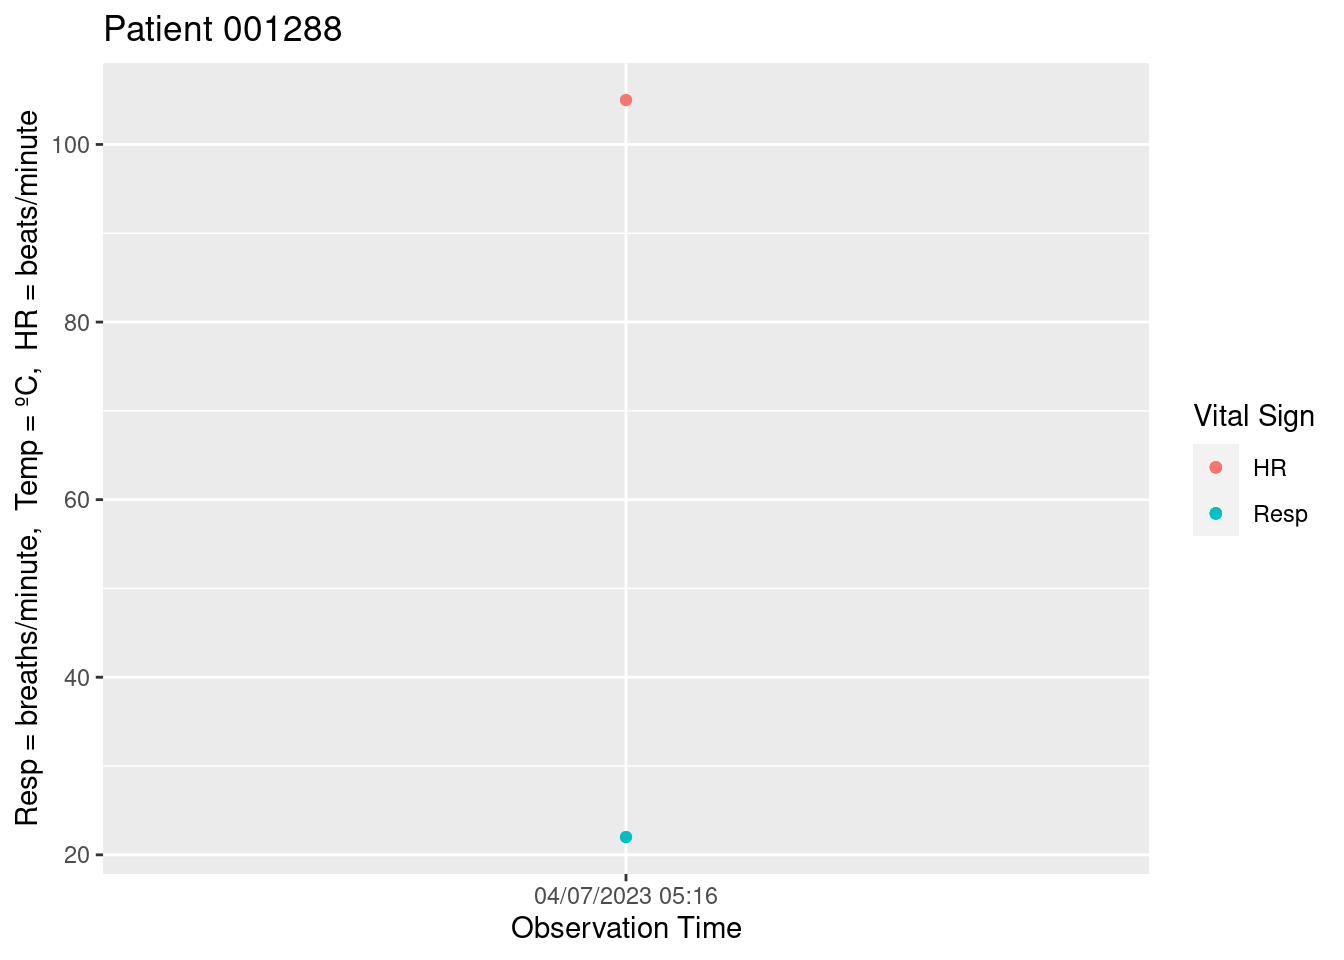
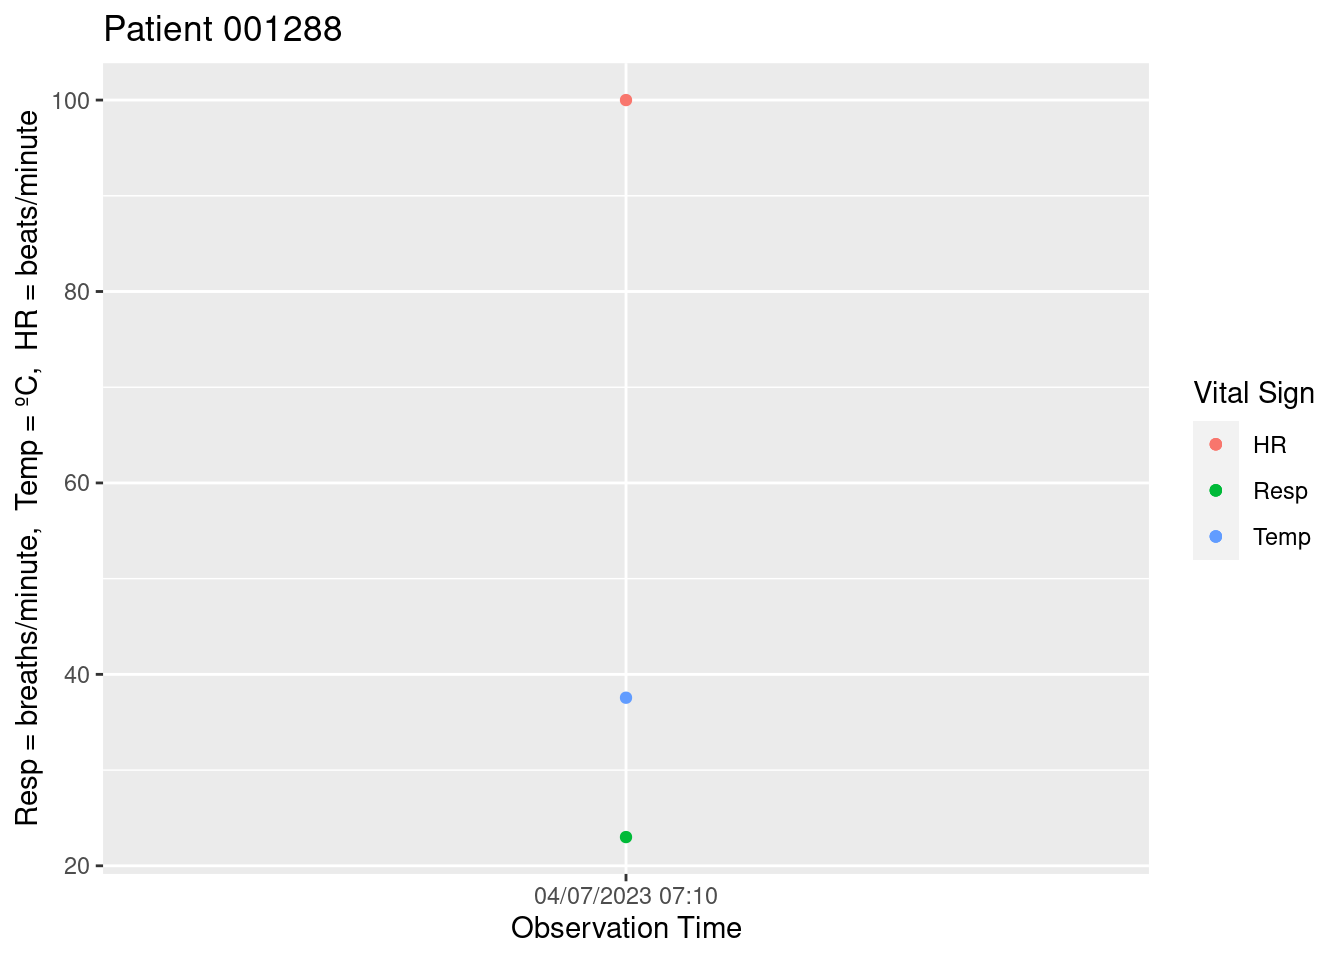
Updated report

diff --git a/Assignment-7.html b/Assignment-7.html
@@ -139,8 +139,8 @@ code span.wa { color: #60a0b0; font-weight: bold; font-style: italic; } /* Warni
 
 <section id="assignment-7" class="level1">
 <h1>Assignment 7</h1>
-<section id="date-and-time-2023-04-07-061459" class="level3">
-<h3 class="anchored" data-anchor-id="date-and-time-2023-04-07-061459">Date and Time: 2023-04-07 06:14:59</h3>
+<section id="date-and-time-2023-04-07-071059" class="level3">
+<h3 class="anchored" data-anchor-id="date-and-time-2023-04-07-071059">Date and Time: 2023-04-07 07:10:59</h3>
 <div class="cell">
 <div class="sourceCode cell-code" id="cb1"><pre class="sourceCode r code-with-copy"><code class="sourceCode r"><span id="cb1-1"><a href="#cb1-1" aria-hidden="true" tabindex="-1"></a><span class="fu">source</span>(<span class="st">"sepsis_monitor_functions.R"</span>)</span>
 <span id="cb1-2"><a href="#cb1-2" aria-hidden="true" tabindex="-1"></a></span>
@@ -185,14 +185,14 @@ code span.wa { color: #60a0b0; font-weight: bold; font-style: italic; } /* Warni
 <tbody>
 <tr class="odd">
 <td style="text-align: left;">001288</td>
-<td style="text-align: right;">105</td>
-<td style="text-align: right;">NA</td>
-<td style="text-align: right;">22</td>
+<td style="text-align: right;">100</td>
+<td style="text-align: right;">37.56</td>
+<td style="text-align: right;">23</td>
 </tr>
 <tr class="even">
 <td style="text-align: left;">003231</td>
 <td style="text-align: right;">98</td>
-<td style="text-align: right;">38.9</td>
+<td style="text-align: right;">38.90</td>
 <td style="text-align: right;">19</td>
 </tr>
 <tr class="odd">
@@ -289,9 +289,9 @@ code span.wa { color: #60a0b0; font-weight: bold; font-style: italic; } /* Warni
 <tbody>
 <tr class="odd">
 <td style="text-align: left;">001288</td>
-<td style="text-align: right;">7</td>
+<td style="text-align: right;">0</td>
 <td style="text-align: right;">NA</td>
-<td style="text-align: right;">2</td>
+<td style="text-align: right;">1</td>
 </tr>
 <tr class="even">
 <td style="text-align: left;">003231</td>
